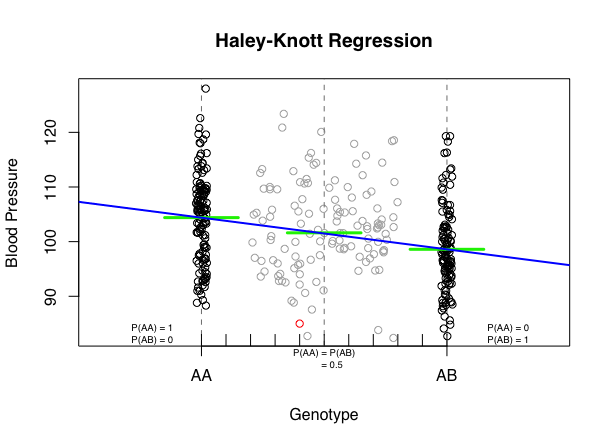
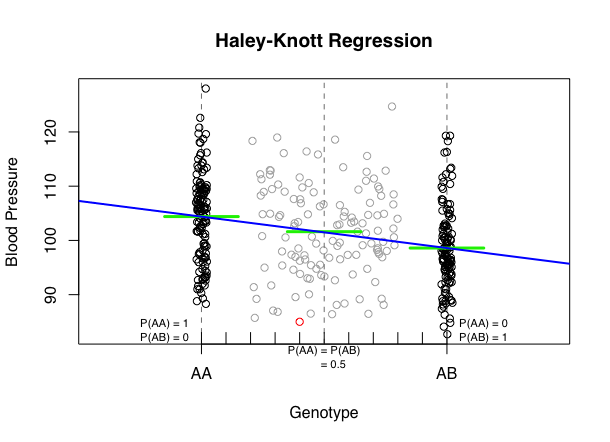
added explanation

diff --git a/_episodes/06-perform-genome-scan.md b/_episodes/06-perform-genome-scan.md
@@ -18,15 +18,18 @@ source: Rmd
 
 
 
+
+The chapter on [Single-QTL analysis](http://www.rqtl.org/book/rqtlbook_ch04.pdf) from Broman and Sen's [A Guide to QTL Mapping with R/qtl](http://www.rqtl.org/book/) describes different methods for QTL analysis. Two of these methods are described here using data from an experiment on hypertension in the mouse [Sugiyama et al., Genomics 71:70-77, 2001](https://s3.amazonaws.com/academia.edu.documents/45963759/geno.2000.640120160526-29022-36mpgg.pdf?AWSAccessKeyId=AKIAIWOWYYGZ2Y53UL3A&Expires=1513786158&Signature=rtodlYwe0LDmYZFOm1ejvZjZhQ0%3D&response-content-disposition=inline%3B%20filename%3DConcordance_of_murine_quantitative_trait.pdf). The study employed a backcross between two mouse strains resulting in two possible genotypes - AA for homozygotes, and AB for heterozygotes. 
+
 Linear regression can be employed to identify presence of QTL in a cross. A regression line drawn between phenotype means for two genotype groups AA and AB will have a slope of zero if there is no difference between the group means. A slope not equal to zero indicates a difference in group means and the presence of a QTL near the markers. Marker regression, as shown below, can identify the existence and effect of a QTL by comparing means between groups, however, it requires known marker genotypes and can't identify QTL in between typed markers.
 
 ![](../fig/marker-regress.png)
 
-In Haley-Knott regression, we can regress the phenotypes for animals of unknown genotype on the conditional genotype probabilities (conditional on known marker genotypes). After calculating genotype probabilities between typed markers, phenotype values can be plotted and a regression line drawn through the phenotype mean for the untyped individuals.
+After [calculating genotype probabilities](https://smcclatchy.github.io/mapping/03-calc-genoprob/), we can regress the phenotypes for animals of unknown genotype on these conditional genotype probabilities (conditional on known marker genotypes). In Haley-Knott regression, phenotype values can be plotted and a regression line drawn through the phenotype mean for the untyped individuals.
 
 ![](../fig/hk-regress.png)
 
-As shown in the figure, an individual of unknown genotype is placed between genotypes according to the probability of its genotype being AA or AB.
+As shown by the red circle in the figure, an individual of unknown genotype is placed between known genotypes according to the probability of its genotype being AA or AB. In this case, the probability of this individual having genotype AA is 0.6, and the probability of having genotype AB is 0.4.
 
 To perform a genome scan by Haley-Knott regression
 ([Haley and Knott 1992](https://www.ncbi.nlm.nih.gov/pubmed/16718932)),
